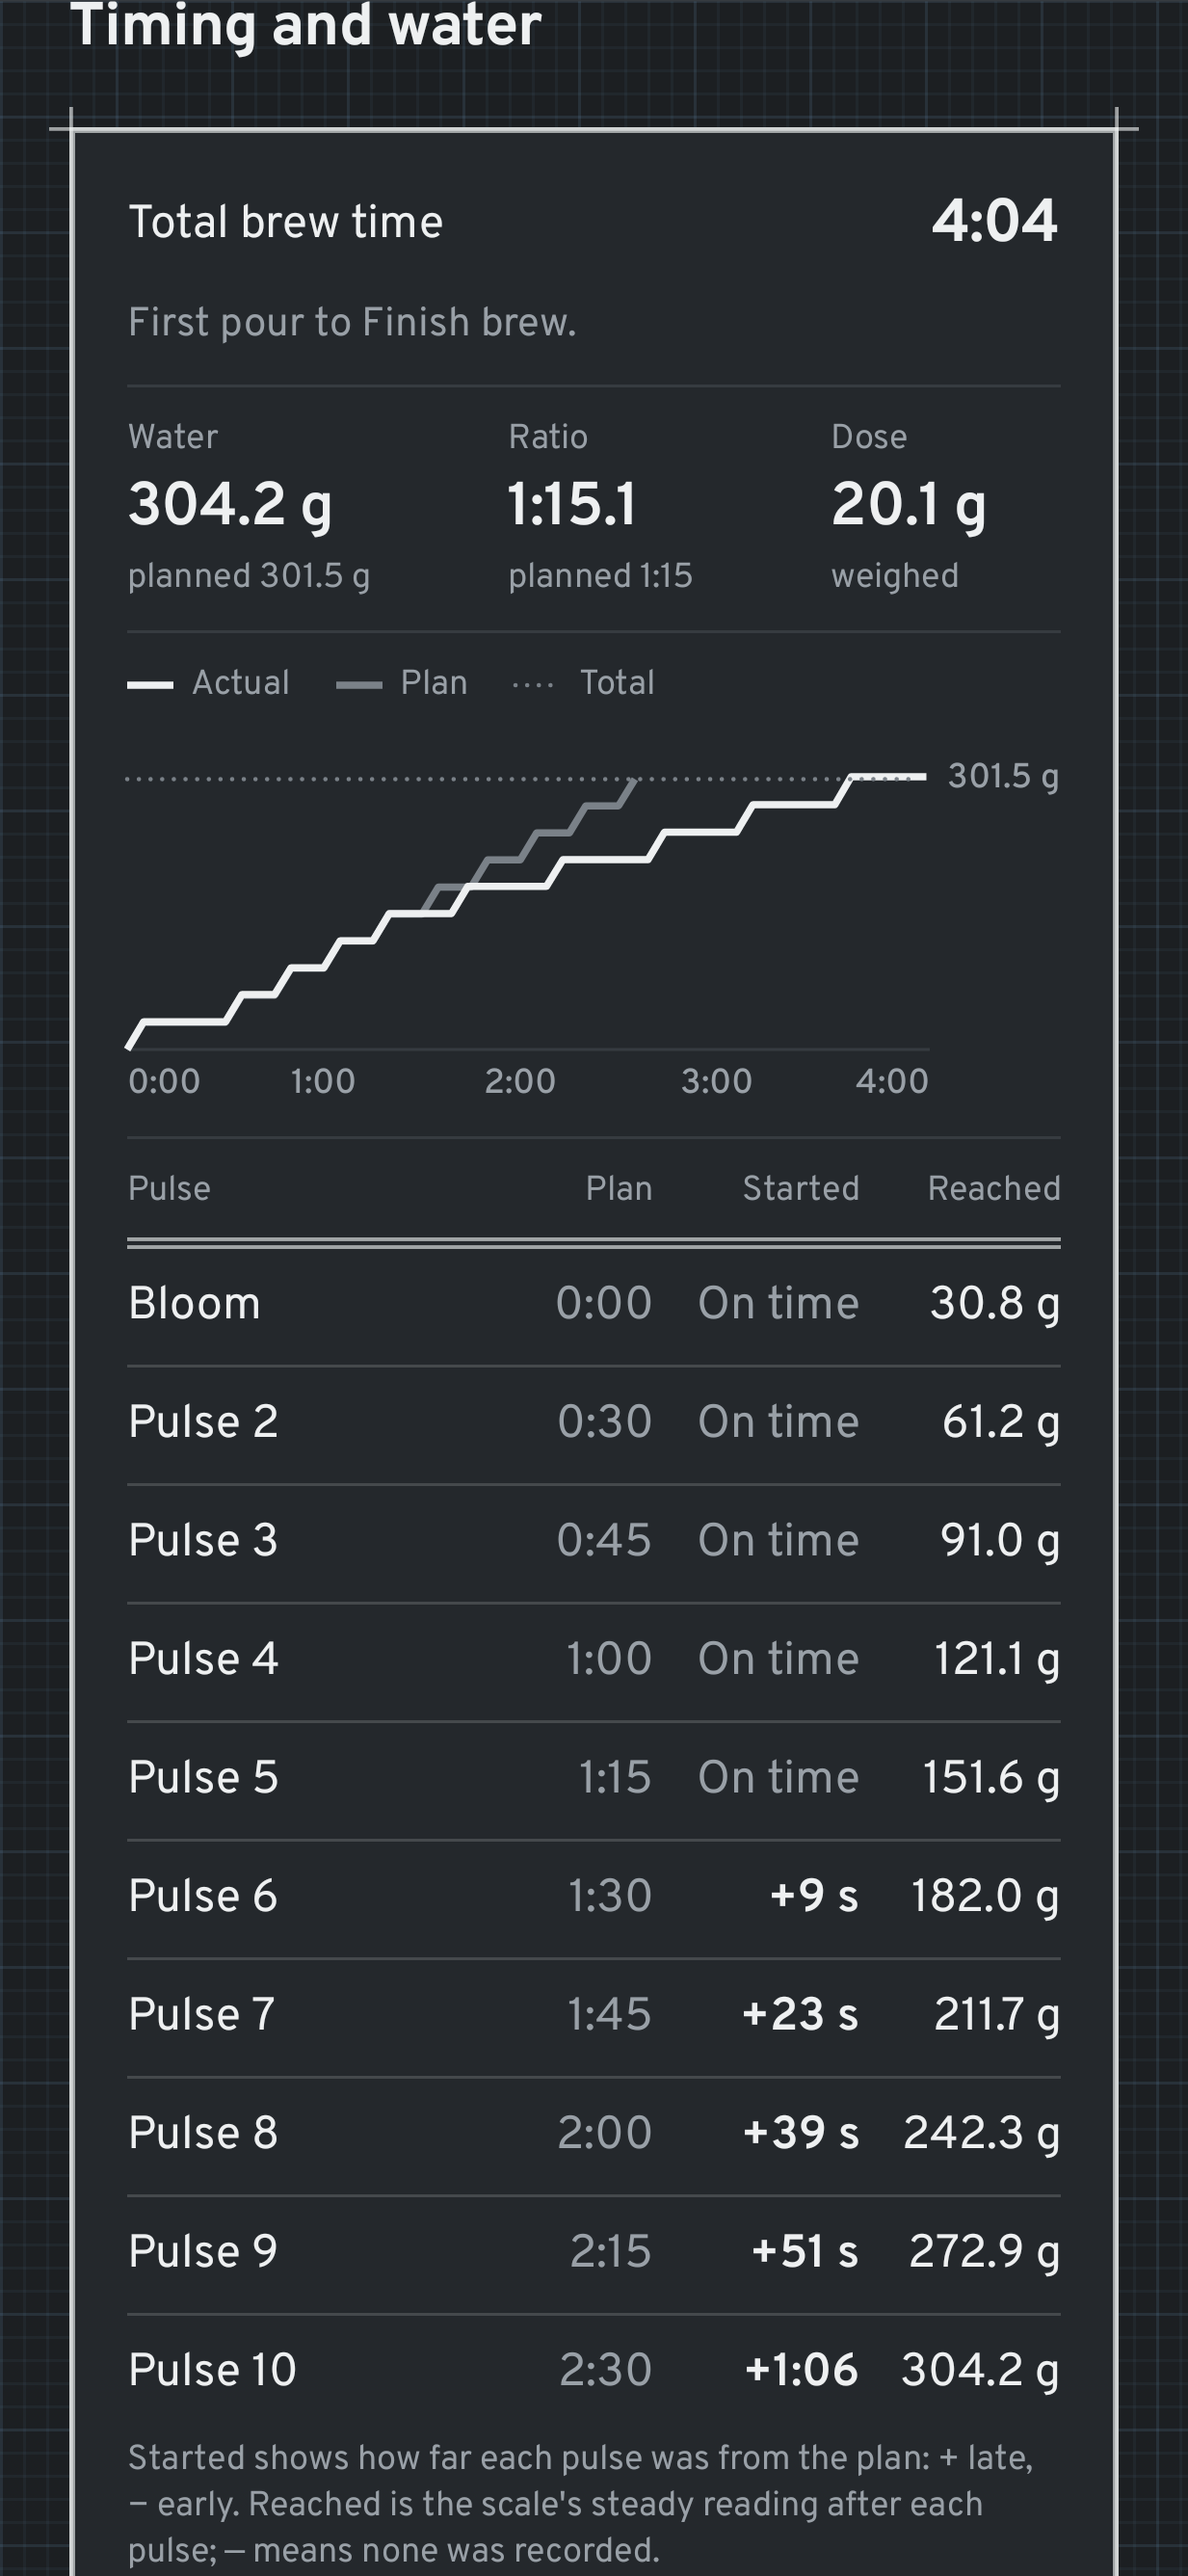
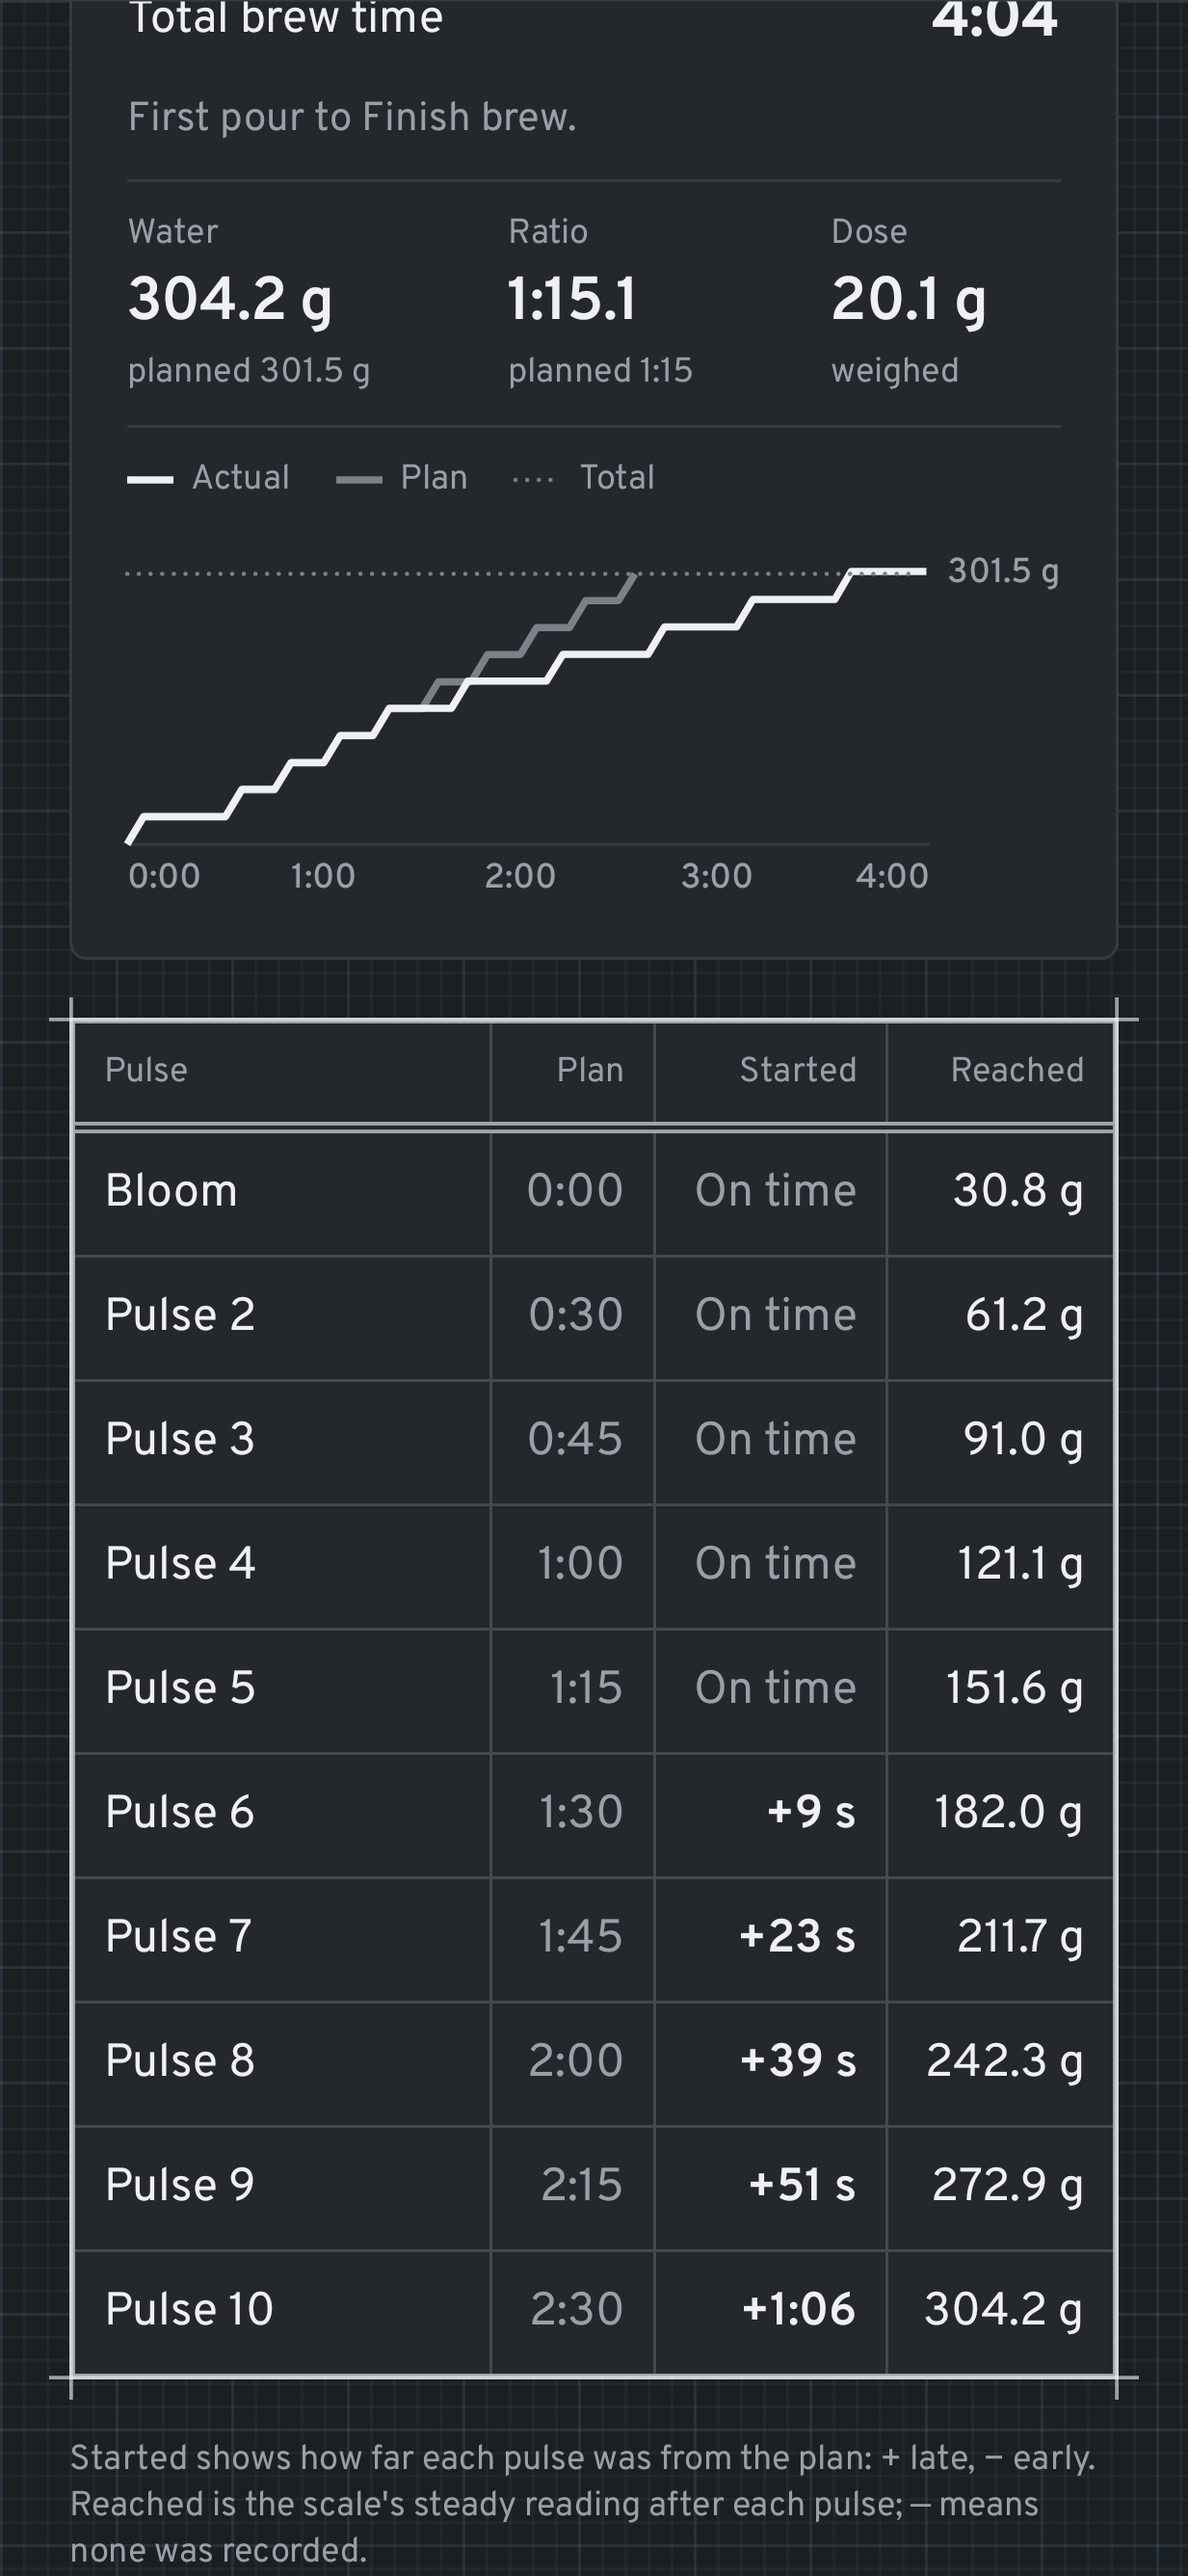
Show the brew's results in the blueprint title block and rule the pulse table on its own

diff --git a/app/src/main/java/com/brewprint/ui/BrewTimerSheet.kt b/app/src/main/java/com/brewprint/ui/BrewTimerSheet.kt
@@ -394,7 +394,12 @@ private fun FooterButton(text: String, icon: ImageVector, modifier: Modifier, fi
 internal fun TimingPanel(recipe: Recipe, timing: BrewTiming, scale: ScaleData? = null) {
     val colors = MaterialTheme.colorScheme
     SectionTitle(if (scale != null) "Timing and water" else "Timing")
-    Panel(ruled = true) {
+    // The blueprint draws the pulse table on its own, ruled like a schedule on a drawing.
+    val ruled = LocalLook.current.blueprint
+    val schedule = recipe.schedule()
+    val unstarted = schedule.indices.any { timing.pulseStarts.getOrNull(it) == null }
+    val key = "Started shows how far each pulse was from the plan: + late, \u2212 early" + (if (unstarted) "; \u2014 means it did not start" else "") + ". " + if (scale != null) "Reached is the scale's steady reading after each pulse; \u2014 means none was recorded." else "Pours are not measured."
+    Panel {
         FlowRow(Modifier.fillMaxWidth(), horizontalArrangement = Arrangement.SpaceBetween) {
             Text("Total brew time", Modifier.align(Alignment.CenterVertically))
             Text(timing.totalSeconds?.let(::formatDuration) ?: "Not recorded", style = MaterialTheme.typography.titleLarge)
@@ -405,7 +410,6 @@ internal fun TimingPanel(recipe: Recipe, timing: BrewTiming, scale: ScaleData? =
             timing.totalEdited -> "Edited.$paused"
             else -> "First pour to Finish brew.$paused"
         }, color = colors.onSurfaceVariant, style = MaterialTheme.typography.bodyMedium)
-        val schedule = recipe.schedule()
         if (scale != null) {
             HorizontalDivider(color = colors.outlineVariant)
             MeasuredTrio(recipe, scale)
@@ -416,11 +420,15 @@ internal fun TimingPanel(recipe: Recipe, timing: BrewTiming, scale: ScaleData? =
                 ", planned ${formatAmount(recipe.totalWater)} grams." + if (latest > 0) " Pulses started up to ${spokenDifference(latest)}." else ""
             WaterCurve(scale.curve, maxOf(timing.totalSeconds ?: 0, scale.curve.size), recipe.totalWater, plan = planLine(recipe), description = summary)
         }
-        HorizontalDivider(color = colors.outlineVariant)
-        TimingRows(schedule, timing, scale)
-        val unstarted = schedule.indices.any { timing.pulseStarts.getOrNull(it) == null }
-        Text("Started shows how far each pulse was from the plan: + late, \u2212 early" + (if (unstarted) "; \u2014 means it did not start" else "") + ". " + if (scale != null) "Reached is the scale's steady reading after each pulse; \u2014 means none was recorded." else "Pours are not measured.",
-            color = colors.onSurfaceVariant, style = MaterialTheme.typography.bodySmall)
+        if (!ruled) {
+            HorizontalDivider(color = colors.outlineVariant)
+            TimingRows(schedule, timing, scale)
+            Text(key, color = colors.onSurfaceVariant, style = MaterialTheme.typography.bodySmall)
+        }
+    }
+    if (ruled) {
+        Column(Modifier.fillMaxWidth().ruled()) { TimingRows(schedule, timing, scale) }
+        Text(key, color = colors.onSurfaceVariant, style = MaterialTheme.typography.bodySmall)
     }
 }
 
@@ -444,11 +452,15 @@ private fun TimingRows(schedule: List<ScheduledPulse>, timing: BrewTiming, scale
     }
     val body = MaterialTheme.typography.bodyLarge
     val small = MaterialTheme.typography.bodySmall
+    // The blueprint rules the table: light rules between rows and columns, and a double rule under the headings.
+    val ruled = LocalLook.current.blueprint
+    val cell = if (ruled) Modifier.padding(horizontal = 10.dp, vertical = 9.dp) else Modifier
     if (LocalDensity.current.fontScale >= 1.3f) {
         // Large text: the name on its own line, then the three values with their labels.
-        Column(verticalArrangement = Arrangement.spacedBy(12.dp)) {
-            rows.forEach { row ->
-                Column(Modifier.fillMaxWidth().clearAndSetSemantics { contentDescription = row.spoken }, verticalArrangement = Arrangement.spacedBy(2.dp)) {
+        Column(verticalArrangement = Arrangement.spacedBy(if (ruled) 0.dp else 12.dp)) {
+            rows.forEachIndexed { index, row ->
+                if (ruled && index > 0) CellRule()
+                Column(Modifier.fillMaxWidth().clearAndSetSemantics { contentDescription = row.spoken }.then(cell), verticalArrangement = Arrangement.spacedBy(2.dp)) {
                     Text(row.name, style = body)
                     Text(listOfNotNull("Plan ${row.plan}", "Started ${row.started}", row.reached?.let { "Reached $it" }).joinToString(" \u00B7 "), color = colors.onSurfaceVariant, style = MaterialTheme.typography.bodyMedium)
                 }
@@ -464,16 +476,17 @@ private fun TimingRows(schedule: List<ScheduledPulse>, timing: BrewTiming, scale
     val startedWidth = widest(rows.map { it.started }, "Started")
     val reachedWidth = if (scale != null) widest(rows.map { it.reached.orEmpty() }, "Reached") else 0.dp
     @Composable fun line(name: String, plan: String, started: String, reached: String?, style: androidx.compose.ui.text.TextStyle, header: Boolean, late: Boolean = false, modifier: Modifier) =
-        Row(modifier.fillMaxWidth(), horizontalArrangement = Arrangement.spacedBy(12.dp)) {
+        Row(modifier.fillMaxWidth().then(if (ruled) Modifier.height(IntrinsicSize.Min) else Modifier), horizontalArrangement = Arrangement.spacedBy(if (ruled) 0.dp else 12.dp)) {
             val dim = colors.onSurfaceVariant
-            Text(name, Modifier.weight(1f), color = if (header) dim else colors.onSurface, style = style, maxLines = 1, overflow = TextOverflow.Ellipsis)
-            Text(plan, Modifier.width(planWidth), color = dim, style = style, textAlign = TextAlign.End, maxLines = 1)
-            Text(started, Modifier.width(startedWidth), color = if (late) colors.onSurface else dim, fontWeight = if (late) FontWeight.SemiBold else null, style = style, textAlign = TextAlign.End, maxLines = 1)
-            if (reached != null) Text(reached, Modifier.width(reachedWidth), color = if (header || reached == "\u2014") dim else colors.onSurface, style = style, textAlign = TextAlign.End, maxLines = 1)
+            val divide: @Composable () -> Unit = { if (ruled) CellRule(vertical = true) }
+            Text(name, Modifier.weight(1f).then(cell), color = if (header) dim else colors.onSurface, style = style, maxLines = 1, overflow = TextOverflow.Ellipsis)
+            divide()
+            Text(plan, cell.width(planWidth), color = dim, style = style, textAlign = TextAlign.End, maxLines = 1)
+            divide()
+            Text(started, cell.width(startedWidth), color = if (late) colors.onSurface else dim, fontWeight = if (late) FontWeight.SemiBold else null, style = style, textAlign = TextAlign.End, maxLines = 1)
+            if (reached != null) { divide(); Text(reached, cell.width(reachedWidth), color = if (header || reached == "\u2014") dim else colors.onSurface, style = style, textAlign = TextAlign.End, maxLines = 1) }
         }
-    // The blueprint rules the table like a schedule on a drawing: a double rule under the headings, light rules between rows.
-    val ruled = LocalLook.current.blueprint
-    Column(verticalArrangement = Arrangement.spacedBy(if (ruled) 8.dp else 10.dp)) {
+    Column(verticalArrangement = Arrangement.spacedBy(if (ruled) 0.dp else 10.dp)) {
         line("Pulse", "Plan", "Started", if (scale != null) "Reached" else null, small, header = true, modifier = Modifier.clearAndSetSemantics { })
         if (ruled) DoubleRule()
         rows.forEachIndexed { index, row -> if (ruled && index > 0) CellRule(); line(row.name, row.plan, row.started, row.reached, body, header = false, late = row.late, modifier = Modifier.clearAndSetSemantics { contentDescription = row.spoken }) }

diff --git a/app/src/main/java/com/brewprint/ui/BrewprintApp.kt b/app/src/main/java/com/brewprint/ui/BrewprintApp.kt
@@ -247,7 +247,7 @@ private fun BrewHome(state: AppState, onNew: () -> Unit, onResume: () -> Unit, o
                 SoftButton(onClick = { onNotes(recent.id) }, modifier = Modifier.fillMaxWidth().heightIn(min = 56.dp)) { Icon(Icons.Outlined.EditNote, null, Modifier.size(20.dp)); Spacer(Modifier.width(8.dp)); Text(if (state.noteEdits.any { it.brewId == recent.id }) "Resume tasting notes" else if (recent.journal.isEmpty) "Add tasting notes" else "Edit tasting notes") }
                 if (look.blueprint) Column(Modifier.padding(top = 6.dp).bleed(20.dp)) {
                     DoubleRule()
-                    CellGrid(setupCells(recent.recipe, recent.setting, short = true), columns = 4, weights = listOf(1.35f, .9f, .8f, 1f))
+                    CellGrid(stripCells(recent.recipe, recent.setting), columns = 4, weights = listOf(1.35f, .9f, .8f, 1f))
                 }
             } }
         }
@@ -697,14 +697,35 @@ private fun DateEntry(text: String, onTextChange: (String) -> Unit, onValidity: 
     }
 }
 
-/** Dose, grind, water and ratio as title-block cells. [short] is the four-cell strip on Brew: recipe, dose, ratio, grind. */
-private fun setupCells(recipe: Recipe, setting: Int, short: Boolean = false, weighed: Boolean = false): List<Cell> {
+/** The four-cell strip on Brew: recipe, dose, ratio, and grind. */
+private fun stripCells(recipe: Recipe, setting: Int): List<Cell> = listOf(
+    Cell("Recipe", recipe.name),
+    Cell("Dose", formatAmount(recipe.dose), "g", "Coffee dose ${formatAmount(recipe.dose)} grams"),
+    Cell("Ratio", "1:${formatAmount(recipe.ratio)}", spoken = "Brew ratio 1 to ${formatAmount(recipe.ratio)}"),
+    Cell("Grind", "$setting", "ticks", "Grind setting, $setting ticks"),
+)
+
+/** A record's title block: its setup, then its results beside the plan where the scale measured them. */
+private fun recordCells(brew: BrewRecord): List<Cell> {
+    val recipe = brew.recipe
     val dose = formatAmount(recipe.dose)
+    val planned = formatAmount(recipe.totalWater)
     val ratio = formatAmount(recipe.ratio)
-    val doseCell = Cell("Dose", dose, if (weighed) "g, weighed" else "g", "Coffee dose $dose grams" + if (weighed) ", weighed" else "")
-    val ratioCell = Cell("Ratio", "1:$ratio", spoken = "Brew ratio 1 to $ratio")
-    return if (short) listOf(Cell("Recipe", recipe.name), doseCell, ratioCell, Cell("Grind", "$setting", "ticks", "Grind setting, $setting ticks"))
-    else listOf(doseCell, Cell("Grind setting", "$setting", "ticks", "Grind setting, $setting ticks"), Cell("Water", formatAmount(recipe.totalWater), "g", "Total brew water ${formatAmount(recipe.totalWater)} grams"), ratioCell)
+    val weighed = brew.scale?.weighedDose != null
+    val water = brew.scale?.water
+    val measuredRatio = water?.let { "1:" + "%.1f".format(it / recipe.dose) }
+    return listOfNotNull(
+        Cell("Recipe", recipe.name),
+        Cell("Grinder", brew.grinder.name),
+        Cell("Dose", dose, if (weighed) "g, weighed" else "g", "Coffee dose $dose grams" + if (weighed) ", weighed" else ""),
+        Cell("Grind setting", "${brew.setting}", "ticks", "Grind setting, ${brew.setting} ticks"),
+        if (water != null) Cell("Water", tenths(water), "of $planned g", "Water ${tenths(water)} grams, planned $planned grams")
+        else Cell("Water", planned, "g", "Total brew water $planned grams"),
+        if (measuredRatio != null) Cell("Ratio", measuredRatio, "of 1:$ratio", "Brew ratio ${measuredRatio.replace("1:", "1 to ")}, planned 1 to $ratio")
+        else Cell("Ratio", "1:$ratio", spoken = "Brew ratio 1 to $ratio"),
+        brew.timing?.let { Cell("Total brew time", it.totalSeconds?.let(::formatDuration) ?: "Not recorded") },
+        Cell("Brewed", dateTime(brew.startedAt)),
+    )
 }
 
 @Composable
@@ -722,7 +743,7 @@ private fun RecordDetail(brew: BrewRecord, hasNoteEdit: Boolean, onClose: () -> 
         PrimaryAction(if (hasNoteEdit) "Resume tasting notes" else if (brew.journal.isEmpty) "Add tasting notes" else "Edit tasting notes", icon = Icons.Outlined.EditNote, onClick = onNotes)
         SecondaryAction("Repeat", icon = Icons.Outlined.Repeat, onClick = onRepeat)
         SectionTitle("Preparation")
-        if (look.blueprint) TitleBlock(listOf(Cell("Recipe", brew.recipe.name), Cell("Grinder", brew.grinder.name)) + setupCells(brew.recipe, brew.setting, weighed = brew.scale?.weighedDose != null),
+        if (look.blueprint) TitleBlock(recordCells(brew),
             revision = brew.journal.nextTime.takeIf { it.isNotBlank() }?.let { next -> {
                 Text("Next time", color = MaterialTheme.colorScheme.onSurfaceVariant, style = MaterialTheme.typography.bodySmall)
                 Text(next, Modifier.weight(1f), color = look.accent, style = look.hand(MaterialTheme.typography.bodyLarge))
